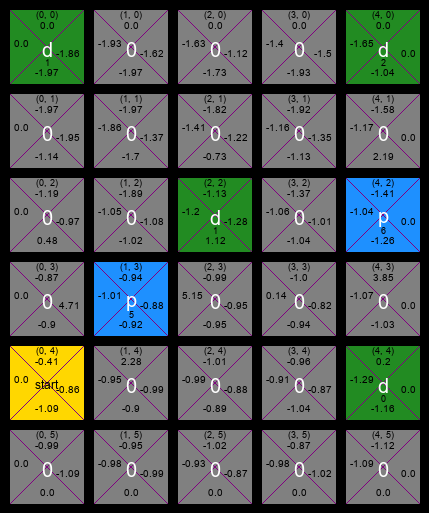
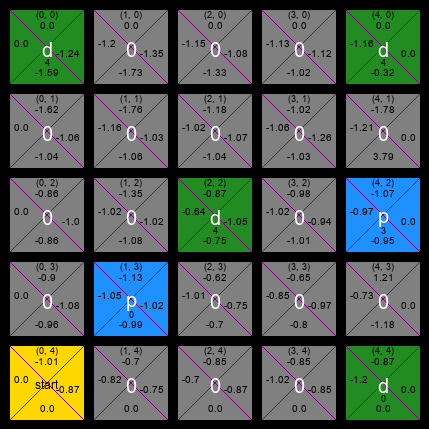
No flashing windows, but slower pick-up, drop-off

diff --git a/main.py b/main.py
@@ -1,8 +1,8 @@
 import time
 import numpy as np
 import random
-from functions import * 
-from vis_funcs import * 
+from functions import *
+from vis_funcs import *
 from Visualize.visualize import Visualize as vl
 from WorldProcessing.readWorld import ReadWorld
 import cv2 as cv
@@ -31,14 +31,13 @@ vis_objs = dict()
 # get index with states[x][y]
 states = getStates(w, h)
 
-
-# offset is diffence in q_table between row for a state, and the row for the same state when holding a block 
+# offset is diffence in q_table between row for a state, and the row for the same state when holding a block
 q_offset = w * h
-q_table = np.zeros((q_offset*2, 6))
+q_table = np.zeros((q_offset * 2, 6))
 
-alpha = 0.3     # learning rate
-gamma = 0.5     # discount rate
-epsilon = 0.8   # chance of being greedy in exploit policy
+alpha = 0.3  # learning rate
+gamma = 0.5  # discount rate
+epsilon = 0.8  # chance of being greedy in exploit policy
 
 
 def main():
@@ -57,16 +56,12 @@ def main():
     steps1 = doSteps(FIRST_STEPS, 'PRANDOM')
 
     vis_objs['q_table_no_block'] = vl('q_table_no_block')
-    vis_objs['q_table_no_block'].visualize_gen(h, w)
-    initQTableWorld(h, w, world, vis_objs['q_table_no_block'], start_x, start_y)
-    updateQTableWorld(h, w, world, vis_objs['q_table_no_block'], x, y)
-    fillQValues(h, w, q_table, vis_objs['q_table_no_block'], False)
-
     vis_objs['q_table_with_block'] = vl('q_table_with_block')
-    vis_objs['q_table_with_block'].visualize_gen(h, w)
-    initQTableWorld(h, w, world, vis_objs['q_table_with_block'], start_x, start_y)
-    updateQTableWorld(h, w, world, vis_objs['q_table_with_block'], x, y)
-    fillQValues(h, w, q_table, vis_objs['q_table_with_block'], True)
+
+    vis_objs['agent_monitor'] = vl('agent_monitor')
+    vis_objs['agent_monitor'].visualize_gen(h, w)
+    initQTableWorld(h, w, world, vis_objs['agent_monitor'], start_x, start_y)
+    updateQTableWorld(h, w, world, vis_objs['agent_monitor'], x, y)
 
     # print("q_table after 500 steps")
     # print(q_table)
@@ -117,6 +112,7 @@ def applyAction(action):
             print((x, y), 'is empty')
         has_block = True
 
+
 def bestValidAction(state, actions):
     max_val = -1
     bestAction = actions[0]
@@ -132,12 +128,15 @@ def bestValidAction(state, actions):
             bestAction = action
     return bestAction
 
+
 def Q(state, action):
     return (q_table[state][actionToIndex(action)])
+
 
 def maxQ(state, actions):
     bestAction = bestValidAction(state, actions)
     return q_table[state][actionToIndex(bestAction)]
+
 
 def exploitAction(state, valid_actions, epsilon):
     if (valid_actions[0] == "d"): return ["d", 13]
@@ -146,15 +145,19 @@ def exploitAction(state, valid_actions, epsilon):
         return chooseRandomAction(valid_actions)
     return [bestValidAction(state, valid_actions), -1]
 
+
 def greedyAction(state, valid_actions):
     if (valid_actions[0] == "d"): return ["d", 13]
     if (valid_actions[0] == "p"): return ["p", 13]
     return [bestValidAction(state, valid_actions), -1]
 
+
 def doSteps(steps, policy):
     global x, y, drop_off_loc, pick_up_loc, has_block, done, world, q_offset, q_table, count_steps, episode
 
     step = 0
+    ntw = True  # from no block to with block
+    wtn = True  # from with block to no block
 
     for step in range(0, steps):
         # this "state" is used for q_table
@@ -174,7 +177,6 @@ def doSteps(steps, policy):
         elif (policy == 'PGREEDY'):
             action, reward = greedyAction(state, valid_actions)
 
-
         # has_block gets updated here
         applyAction(action)
 
@@ -186,7 +188,7 @@ def doSteps(steps, policy):
 
         # update qtable
         q_table[state][actionToIndex(action)] = \
-            round((1-alpha)*Q(state, action) + alpha*(reward + gamma*maxQ(next_state, next_valid_actions)), 2)
+            round((1 - alpha) * Q(state, action) + alpha * (reward + gamma * maxQ(next_state, next_valid_actions)), 2)
 
         # keep track of prev state for step visualize part
         prev_x = x
@@ -198,9 +200,6 @@ def doSteps(steps, policy):
 
         # if terminal state reached
         # reset world, put agent back at start
-
-        ntw = 1  # from no block to with block
-        wtn = 1  # from with block to no block
 
         if len(pick_up_loc) == 0 and len(drop_off_loc) == 0:
             print("\nTerminal state reached")
@@ -240,45 +239,40 @@ def doSteps(steps, policy):
             # print(q_table)
             print(valid_actions)
             print('action: {:5s}'.format(action), '| reward:', reward)
+            print('ntw:', ntw, '| wtn:', wtn)
             if has_block:
-                wtn += 1
-                if ntw == 1:
-                    updateCell(h, w, q_table, world, vis_objs['q_table_no_block'],
-                               False, prev_x, prev_y, start_x, start_y)
-                    ntw -= 1
-                cv.destroyWindow('With no block')
-                updateCell(h, w, q_table, world, vis_objs['q_table_with_block'],
+                wtn = True
+                if ntw:
+                    vis_objs['agent_monitor'].visualize_gen(h, w)
+                    initQTableWorld(h, w, world, vis_objs['agent_monitor'], start_x, start_y)
+                    updateQTableWorld(h, w, world, vis_objs['agent_monitor'], x, y)
+                    fillQValues(h, w, q_table, vis_objs['agent_monitor'], has_block)
+                    ntw = False
+                updateCell(h, w, q_table, world, vis_objs['agent_monitor'],
                            has_block, prev_x, prev_y, start_x, start_y)
-                putAgent(h, w, q_table, world, vis_objs['q_table_with_block'], has_block, x, y, start_x, start_y, 'ab')
-                img_b = cv.imread('q_table_with_block.png')
-                cv.imshow('With block', img_b)
-                cv.waitKey(1)
-                updateCell(h, w, q_table, world, vis_objs['q_table_with_block'],
-                           has_block, prev_x, prev_y, start_x, start_y)
+                putAgent(h, w, q_table, world, vis_objs['agent_monitor'], has_block, x, y, start_x, start_y, 'ab')
 
             else:
-                ntw += 1
-                if wtn == 1:
-                    updateCell(h, w, q_table, world, vis_objs['q_table_with_block'],
-                               True, prev_x, prev_y, start_x, start_y)
-                    wtn -= 1
+                ntw = True
+                if wtn:
+                    vis_objs['agent_monitor'].visualize_gen(h, w)
+                    initQTableWorld(h, w, world, vis_objs['agent_monitor'], start_x, start_y)
+                    updateQTableWorld(h, w, world, vis_objs['agent_monitor'], x, y)
+                    fillQValues(h, w, q_table, vis_objs['agent_monitor'], has_block)
+                    wtn = False
                 cv.destroyWindow('With block')
-                updateCell(h, w, q_table, world, vis_objs['q_table_no_block'],
+                updateCell(h, w, q_table, world, vis_objs['agent_monitor'],
                            has_block, prev_x, prev_y, start_x, start_y)
-                putAgent(h, w, q_table, world, vis_objs['q_table_no_block'], has_block, x, y, start_x, start_y, 'a')
-                img_nb = cv.imread('q_table_no_block.png')
-                cv.imshow('With no block', img_nb)
-                cv.waitKey(1)
-                updateCell(h, w, q_table, world, vis_objs['q_table_no_block'],
-                           has_block, prev_x, prev_y, start_x, start_y)
-                updateCell(h, w, q_table, world, vis_objs['q_table_no_block'],
-                           has_block, x, y, start_x, start_y)
+                putAgent(h, w, q_table, world, vis_objs['agent_monitor'], has_block, x, y, start_x, start_y, 'a')
+
+            img = cv.imread('agent_monitor.png')
+            cv.imshow('agent monitor', img)
+            cv.waitKey(1)
 
     if step + 1 == SECOND_STEPS:
         print('episode ', episode, '| agent takes:', count_steps)
-    return step+1
+    return step + 1
 
 
 if __name__ == '__main__':
     main()
-
